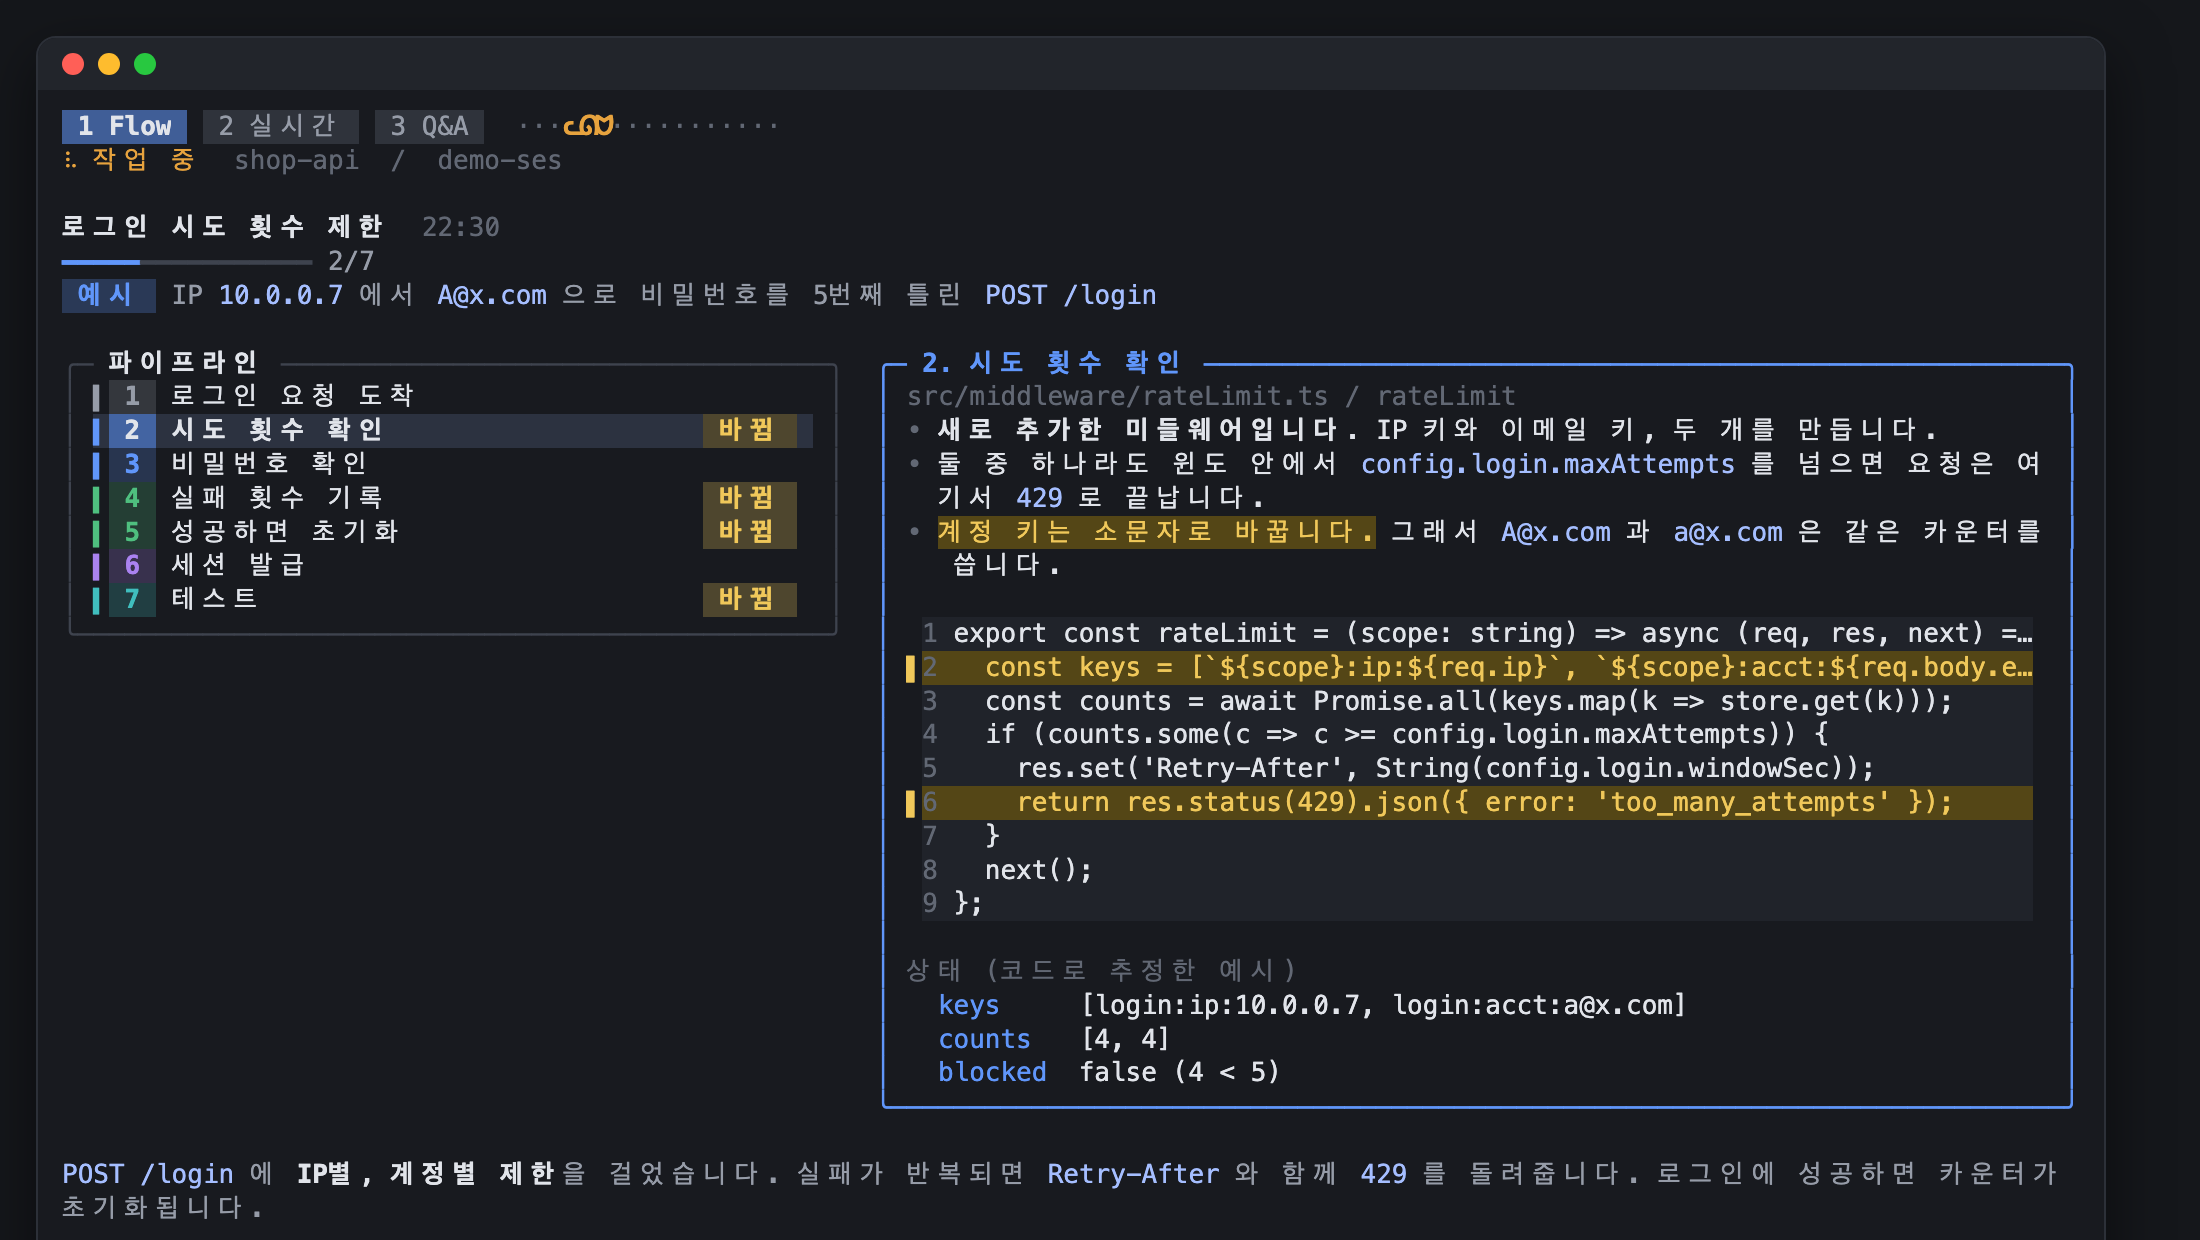
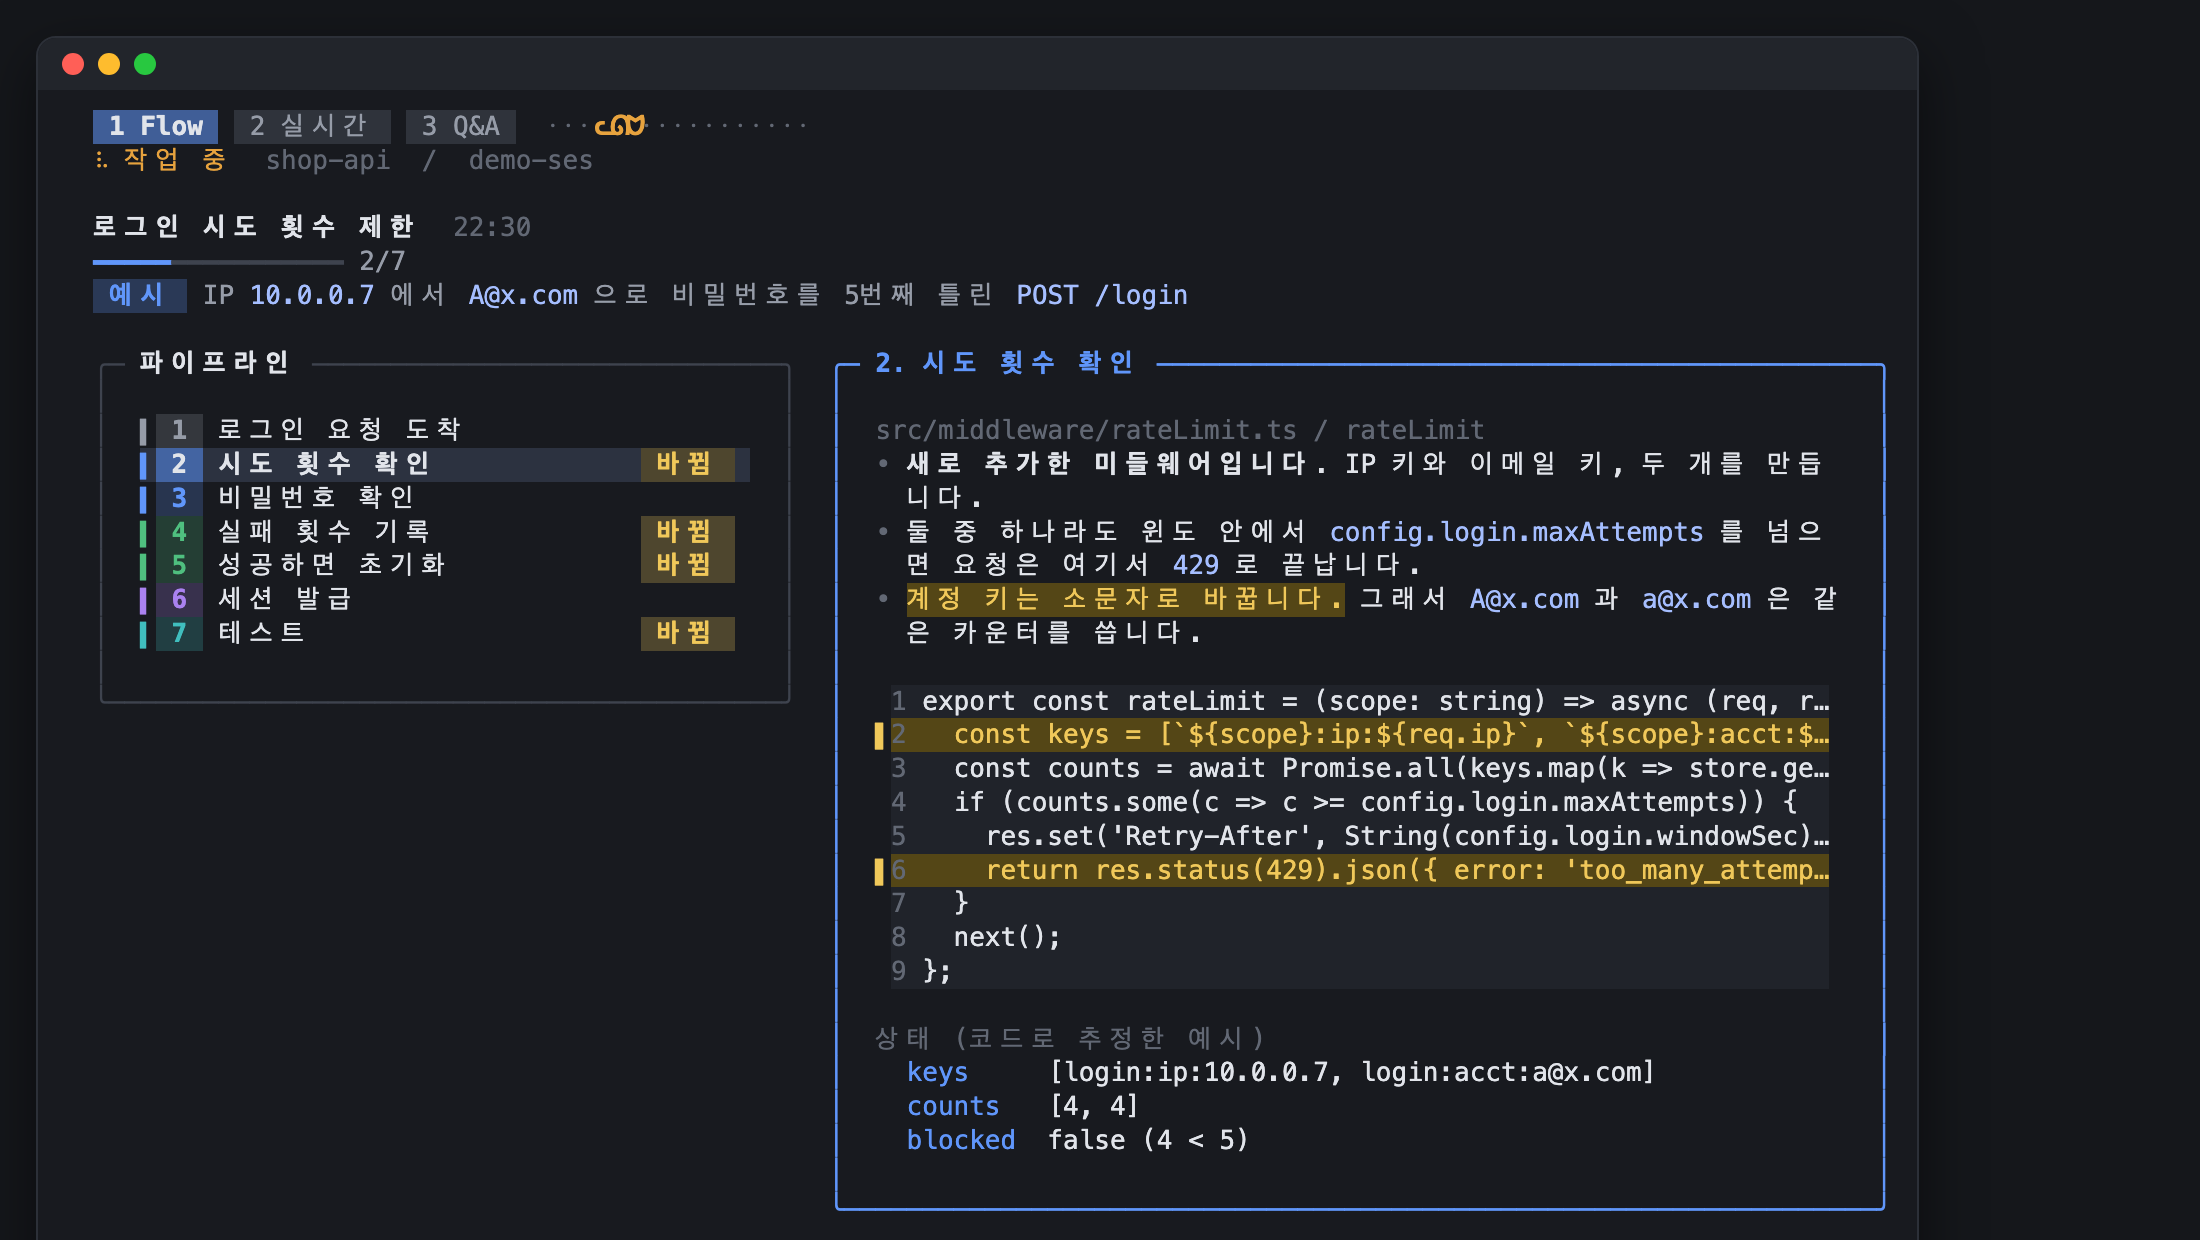
Terminal panel margins and padding; README says which panel each screenshot shows and that the token is automatic
Claude-Session: https://claude.ai/code/session_0121ovcFUkEhWW55jjw4PbtV

diff --git a/src/side_insights/live/views.py b/src/side_insights/live/views.py
@@ -7,13 +7,14 @@ from side_insights.analysis.runner import Pending
 from side_insights.analysis.waiting import Waiting, eta_seconds
 from side_insights.i18n import t
 from side_insights.live.activity import ERR, OK, RUN, tool_label
-from side_insights.live.term import (BLUE, CODE_BG, FAINT, GREEN, HIGHLIGHT_BG, LINE, MUTED, ORANGE, PURPLE, RED,
+from side_insights.live.term import (BOLD, inner_width, BLUE, CODE_BG, FAINT, GREEN, HIGHLIGHT_BG, LINE, MUTED, ORANGE, PURPLE, RED,
                                      SELECTED_BG, TEAL, TEXT, YELLOW, badge, bg, box, bullets, fit, fit_left, key_cap,
                                      paint, pad, rule, styled, tint, visible_width, width)
 from side_insights.paths import EDIT_TOOLS
 
 SPINNER = "⠋⠙⠹⠸⠼⠴⠦⠧⠇⠏"
 CAT = "ᓚᘏᗢ"
+GROUND = "⠂"
 TRACK = 14
 BAR = 16
 CODE_LINES = 12
@@ -49,7 +50,7 @@ def cat(busy, tick):
     if not busy:
         return paint(CAT, MUTED) + paint(" zZ", FAINT)
     spot = tick % TRACK
-    return paint("·" * spot, FAINT) + paint(CAT, ORANGE, bold=True) + paint("·" * (TRACK - spot), FAINT)
+    return paint(GROUND * spot, FAINT) + paint(CAT, ORANGE, bold=True) + paint(GROUND * (TRACK - spot), FAINT)
 
 
 def header(tab_keys, current, st, tick, cols):
@@ -114,7 +115,7 @@ def live_lines(st, tick, cols, rows):
     if len(files) > MAX_FILES:
         file_lines.append(paint(t("term_more", len(files) - MAX_FILES, pane=pane), FAINT))
     now = time.time()
-    tool_lines = [_tool_line(tool, st, tick, now, tools_w - 4) for tool in reversed(tools)] or [paint(t("term_not_yet", pane=pane), FAINT)]
+    tool_lines = [_tool_line(tool, st, tick, now, inner_width(tools_w)) for tool in reversed(tools)] or [paint(t("term_not_yet", pane=pane), FAINT)]
     files_box = box(file_lines, files_w, LINE, paint(t("term_files", len(files), pane=pane), TEXT, bold=True))
     tools_box = box(tool_lines, tools_w, LINE, paint(t("term_tools", len(tools), pane=pane), TEXT, bold=True))
     return lines + (_side_by_side(files_box, tools_box, cols) if wide else files_box + [""] + tools_box)
@@ -122,9 +123,9 @@ def live_lines(st, tick, cols, rows):
 
 def _waiting_lines(pane, waiting, eta, checking, cols):
     note = t("qa_wait_checking", pane=pane) if checking else t("qa_wait_d", eta, pane=pane)
-    inner = [*styled(note, cols - 4, MUTED)]
+    inner = [*styled(note, inner_width(cols), MUTED), ""]
     for item in waiting:
-        inner += [paint("• ", ORANGE) + line[2:] for line in styled(item["text"], cols - 4, TEXT, indent=2)[:1]]
+        inner += [paint("• ", ORANGE) + line[2:] for line in styled(item["text"], inner_width(cols), TEXT, indent=2)[:1]]
     return box(inner, cols, ORANGE, paint(f"⏳ {t('qa_wait_t', len(waiting), pane=pane)}", ORANGE, bold=True))
 
 
@@ -149,7 +150,7 @@ def qa_lines(st, tick, cols):
         lines += styled(t("qa_eta", eta, pane=pane), cols, FAINT) + [""]
     if not turns:
         return lines + [paint(t("qa_empty_t", pane=pane), TEXT, bold=True), *styled(t("qa_empty_d", pane=pane), cols, MUTED)]
-    inner = cols - 4
+    inner = inner_width(cols)
     for turn in turns:
         body = []
         if turn.get("status") != "ok":
@@ -161,9 +162,10 @@ def qa_lines(st, tick, cols):
             status = item.get("status")
             label = t("st_" + status, pane=pane) if status in STATUS_COLOR else status or "-"
             mid = paint(" " + t("midturn", pane=pane), FAINT) if item.get("from") == "mid-turn" else ""
-            body += ([""] if n else []) + [f"{badge(label, STATUS_COLOR.get(status, FAINT))}{mid}", *styled(item.get("question"), inner, TEXT)]
+            body += ([""] if n else []) + [f"{badge(label, STATUS_COLOR.get(status, FAINT))}{mid}",
+                                            *(BOLD + q for q in styled(item.get("question"), inner, TEXT, indent=2))]
             if item.get("answer"):
-                body += styled(item["answer"], inner, MUTED, indent=2)
+                body += styled(item["answer"], inner, MUTED, indent=4)
         prompt = fit((turn.get("prompt") or "").replace("\n", " "), cols - 13).rstrip()
         lines += box(body, cols, LINE, f"{paint(clock(turn.get('ts')), FAINT)} {paint(prompt, MUTED)}") + [""]
     return lines
@@ -235,12 +237,12 @@ def flow_lines(st, step, tick, cols):
     wide = cols >= WIDE_COLS
     pipe_w = (cols - GAP) * 2 // 5 if wide else cols
     detail_w = cols - pipe_w - GAP if wide else cols
-    pipeline = box(_pipeline(steps, step, pipe_w - 4, pane), pipe_w, LINE, paint(t("pipeline", pane=pane), TEXT, bold=True))
+    pipeline = box(_pipeline(steps, step, inner_width(pipe_w), pane), pipe_w, LINE, paint(t("pipeline", pane=pane), TEXT, bold=True))
     detail = []
     if steps:
         s = steps[step]
         color = KIND_COLOR.get(s.get("kind"), MUTED)
-        inner = detail_w - 4
+        inner = inner_width(detail_w)
         body = [paint(fit(s.get("location") or "", inner).rstrip(), FAINT), *bullets(s.get("explanation"), inner)]
         code = _code(s, inner)
         state = _state(s, inner, pane)

diff --git a/src/side_insights/live/term.py b/src/side_insights/live/term.py
@@ -5,6 +5,7 @@ import unicodedata
 RESET, BOLD = "\033[0m", "\033[1m"
 ANSI = re.compile(r"\033\[[0-9;]*m")
 BULLET = re.compile(r"^(?:[-•]\s+|\*\s+)")
+NO_LINE_START = set("。、，．）」』】！？ー.,)!?:;")
 MARKUP = re.compile(r"==(.+?)==|\*\*(.+?)\*\*|`([^`]+)`")
 
 TEXT = (225, 228, 234)
@@ -112,6 +113,9 @@ def _break(chars, cols):
             if cut > 0 and width(word) == len(word) and len(word) < cols // 2:
                 lines.append(line[:cut])
                 line = line[cut + 1:]
+            elif item[0] in NO_LINE_START and len(line) > 1:
+                lines.append(line[:-1])
+                line = line[-1:]
             else:
                 lines.append(line)
                 line = []
@@ -155,10 +159,20 @@ def rule(cols, label="", color=LINE):
     return paint("── ", color) + label + " " + paint("─" * max(0, cols - visible_width(label) - 4), color)
 
 
+PAD_X = 2
+
+
+def inner_width(cols):
+    """Room for content inside a box of width cols."""
+    return cols - 2 - 2 * PAD_X
+
+
 def box(lines, cols, color=LINE, title=""):
-    """Rounded box around lines that already fit in cols - 4."""
-    inner = cols - 4
+    """Rounded box with one empty line above and below the content and PAD_X spaces on each side."""
+    inner = inner_width(cols)
     head = paint("╭─ ", color) + title + " " + paint("─" * max(0, cols - visible_width(title) - 5) + "╮", color) if title \
         else paint("╭" + "─" * (cols - 2) + "╮", color)
     side = paint("│", color)
-    return [head, *(f"{side} {pad(line, inner)} {side}" for line in lines), paint("╰" + "─" * (cols - 2) + "╯", color)]
+    gap = " " * PAD_X
+    body = [f"{side}{gap}{pad(line, inner)}{gap}{side}" for line in ["", *lines, ""]]
+    return [head, *body, paint("╰" + "─" * (cols - 2) + "╯", color)]

diff --git a/src/side_insights/live/viewer.py b/src/side_insights/live/viewer.py
@@ -22,6 +22,7 @@ POLL_SECONDS = 0.1
 ANIMATE_SECONDS = 0.15
 IDLE_REDRAW_SECONDS = 1
 VIEW_TITLE = "claude-panel:"
+MARGIN = 2
 RIGHT_MARGIN = 1
 SCROLL_STEP = 3
 ARROWS = {"A": "up", "B": "down", "C": "right", "D": "left"}
@@ -56,14 +57,14 @@ class Screen:
 
     def draw(self):
         cols, rows = os.get_terminal_size()
-        cols -= RIGHT_MARGIN
+        cols -= RIGHT_MARGIN + 2 * MARGIN
         head = views.header(TAB_KEYS, self.tab, self.tail.state, self.tick, cols)
         foot = views.footer(self.pane, cols)
         space = max(1, rows - len(head) - 1)
         body = self.body(cols, space)
         top = max(0, min(self.scroll[self.tab], len(body) - space))
         self.scroll[self.tab] = top
-        visible = (head + body[top:top + space] + [""] * space)[:rows - 1] + [foot]
+        visible = [" " * MARGIN + line for line in (head + body[top:top + space] + [""] * space)[:rows - 1] + [foot]]
         sys.stdout.write("\033[H" + "\r\n".join(line + "\033[0m\033[K" for line in visible) + "\033[J")
         sys.stdout.flush()
 

diff --git a/README.ja.md b/README.ja.md
@@ -39,6 +39,8 @@ English、한국어、日本語に対応しています。
 
 *架空のプロジェクトで作った例です。*
 
+**ブラウザパネル**: cmux のようにブラウザを備えたターミナル、または `claude-flow` で開いたブラウザではこう表示されます。
+
 | Q&A | フロー |
 |---|---|
 | ![Q&A タブ](docs/ja/qa.png) | ![フロータブ](docs/ja/flow.png) |
@@ -163,7 +165,7 @@ flowchart LR
 
 - データはすべて `~/.claude/side-insights/` にあり、自分のユーザーだけが読めます。
 - サーバーは 127.0.0.1 だけで待ち受け、ホストが `127.0.0.1` か `localhost` のリクエストだけを受け付けます (DNS rebinding 対策)。
-- ページには `?t=<トークン>`、API には `X-Claude-Panel` ヘッダーが必要です。トークンは `~/.claude/side-insights/token` にあります。
+- すべてのページと API は秘密のトークンで守られています。トークンは自動で作られ、`claude-panel` と `claude-flow` が開くリンクに自動で付くので、自分で入力することはありません。ほかの Web ページや同じマシンのほかのユーザーはトークンを持たないため、記録を読んだり有料の分析を実行したりできません。
 
 ## アンインストール
 

diff --git a/README.ko.md b/README.ko.md
@@ -39,6 +39,8 @@ English, 한국어, 日本語를 지원합니다.
 
 *가상의 프로젝트로 만든 예시입니다.*
 
+**브라우저 패널**: cmux처럼 브라우저를 지원하는 터미널, 또는 `claude-flow`로 연 브라우저에서 이렇게 보입니다.
+
 | Q&A | Flow |
 |---|---|
 | ![Q&A 탭](docs/ko/qa.png) | ![Flow 탭](docs/ko/flow.png) |
@@ -163,7 +165,7 @@ flowchart LR
 
 - 모든 데이터는 `~/.claude/side-insights/`에 있고 내 계정만 읽을 수 있습니다.
 - 서버는 127.0.0.1에서만 열리고, 호스트가 `127.0.0.1`이나 `localhost`인 요청만 받습니다 (DNS rebinding 차단).
-- 페이지는 `?t=<토큰>`, API는 `X-Claude-Panel` 헤더가 필요합니다. 토큰은 `~/.claude/side-insights/token`에 있습니다.
+- 모든 페이지와 API는 비밀 토큰으로 보호됩니다. 토큰은 자동으로 만들어지고 `claude-panel`, `claude-flow`가 여는 링크에 자동으로 붙으므로 직접 입력할 일은 없습니다. 다른 웹 페이지나 같은 컴퓨터의 다른 사용자는 토큰이 없어서 기록을 읽거나 유료 분석을 실행할 수 없습니다.
 
 ## 제거
 

diff --git a/README.md b/README.md
@@ -39,6 +39,8 @@ Available in English, 한국어 and 日本語.
 
 *Sample data from a made-up project.*
 
+**Browser panel**, in terminals with a built-in browser such as cmux, or in your own browser with `claude-flow`:
+
 | Q&A | Flow |
 |---|---|
 | ![Q&A tab](docs/qa.png) | ![Flow tab](docs/flow.png) |
@@ -163,7 +165,7 @@ flowchart LR
 
 - Everything stays in `~/.claude/side-insights/`, readable only by you.
 - The server listens on 127.0.0.1 and only accepts `127.0.0.1` or `localhost` as host (no DNS rebinding).
-- Pages need `?t=<token>` and API calls need the `X-Claude-Panel` header. The token is in `~/.claude/side-insights/token`.
+- A secret token guards every page and API call. It is created and added to every link for you (`claude-panel`, `claude-flow`), so you never type it. Other web pages and other users on the machine don't have it, so they can't read your activity or start paid runs.
 
 ## Uninstall
 
